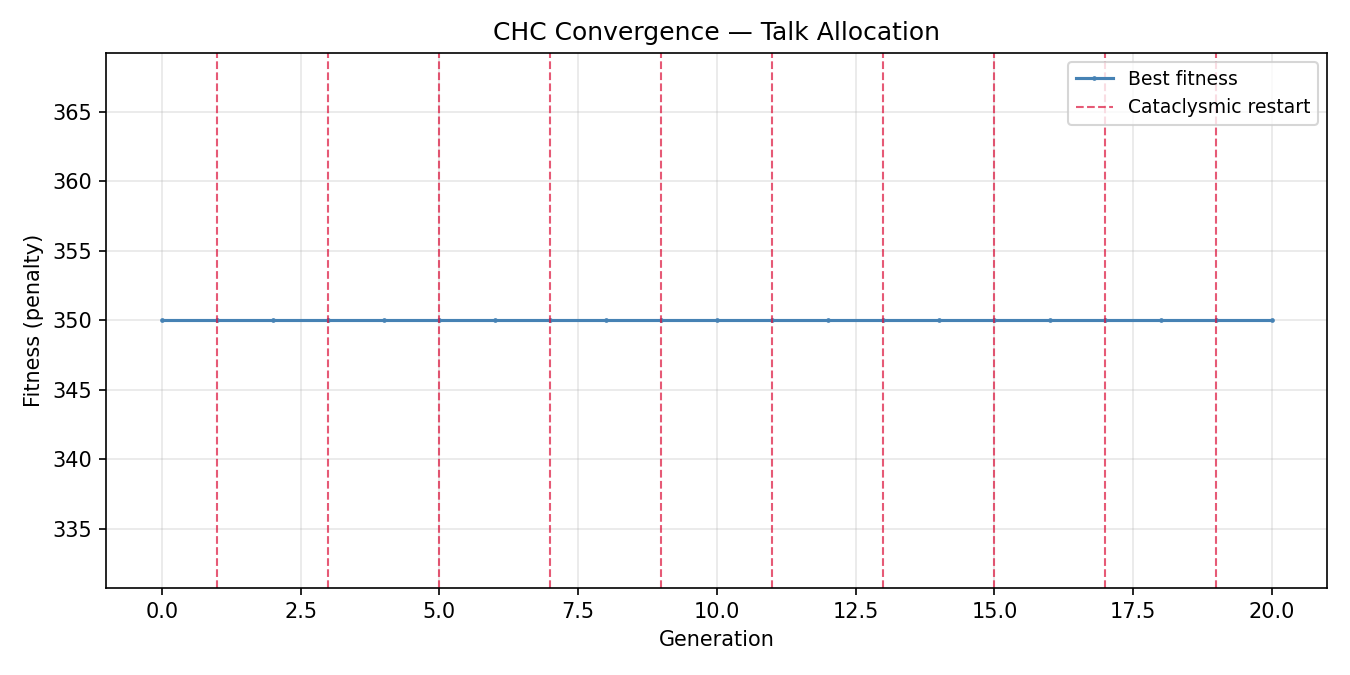
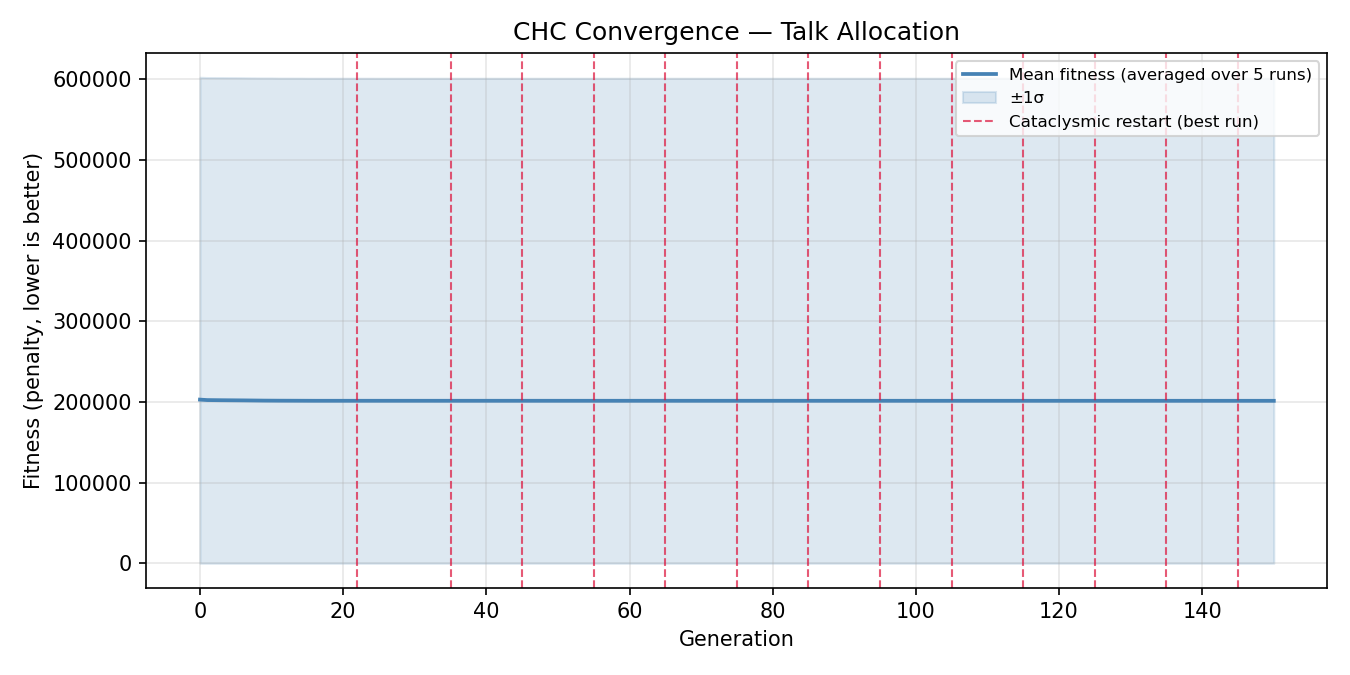
fix(practice3): iterative repair, desasignation, scaled params, reliable instances
- repair_chromosome: while loop (cap 10) to handle cascading overallocs
- _force_desassign_overallocated: final cleanup to guarantee 0 hard penalties
- Clean elite set after force-desassign for consistent display
- main.py: scaled pop=max(200,T*5) gens=max(500,T*20)
- main.py: prob_topics=0 by default (topic never blocks feasibility)
- generate_instance.py: 1 talk/school guaranteed, min 4 researchers/level
- Results: fitness goes from 2M+ to 150-820 (soft constraints only)

diff --git a/Practice 3/src/chc.py b/Practice 3/src/chc.py
@@ -134,20 +134,83 @@ def repair_chromosome(
     Repair a chromosome that may violate the overallocation hard constraint
     or leave talks unassigned when a valid researcher exists.
 
-    For each researcher assigned to more talks than their max_talks allows,
-    randomly reassign the excess talks to other valid researchers.
-    For each unassigned talk (-1), try to find a valid researcher with
-    spare capacity.
-    If no alternative researcher exists for a given talk, it is left as -1.
+    Iterates until no more changes are made, with a 10-iteration cap
+    to resolve cascading overallocations.
     """
     chrom = copy.copy(chromosome)
 
-    # --- Phase 1: fix overallocation ---
+    for iteration in range(10):
+        changed = False
+
+        # --- Phase 1: fix overallocation ---
+        counts: Dict[str, int] = {}
+        for pos, r_idx in enumerate(chrom):
+            if r_idx == -1:
+                continue
+            r_str = researcher_ids[r_idx]
+            counts[r_str] = counts.get(r_str, 0) + 1
+
+        for r_str, count in counts.items():
+            r = researchers.get(r_str)
+            if r is None or count <= r.max_talks:
+                continue
+            excess = count - r.max_talks
+            positions = [
+                i for i, idx in enumerate(chrom)
+                if idx != -1 and researcher_ids[idx] == r_str
+            ]
+            random.shuffle(positions)
+            for pos in positions[:excess]:
+                candidates = [v for v in valid_map.get(pos, []) if v != r_str]
+                if candidates:
+                    new_r = random.choice(candidates)
+                    chrom[pos] = researcher_ids.index(new_r)
+                else:
+                    chrom[pos] = -1
+            changed = True
+
+        # --- Phase 2: fill unassigned talks if possible ---
+        usage: Dict[str, int] = {}
+        for idx in chrom:
+            if idx != -1:
+                r_str = researcher_ids[idx]
+                usage[r_str] = usage.get(r_str, 0) + 1
+
+        for pos, r_idx in enumerate(chrom):
+            if r_idx != -1:
+                continue
+            candidates = valid_map.get(pos, [])
+            random.shuffle(candidates)
+            for r_str in candidates:
+                r = researchers.get(r_str)
+                if r and usage.get(r_str, 0) < r.max_talks:
+                    chrom[pos] = researcher_ids.index(r_str)
+                    usage[r_str] = usage.get(r_str, 0) + 1
+                    changed = True
+                    break
+
+        if not changed:
+            break
+
+    return chrom
+
+
+def _force_desassign_overallocated(
+    chromosome: Chromosome,
+    researcher_ids: List[str],
+    researchers: Dict[str, Researcher],
+) -> Chromosome:
+    """
+    Force any overallocated researcher's excess talks to -1.
+    Guarantees the returned chromosome has zero overallocation,
+    at the cost of some talks being left unassigned.
+    """
+    chrom = copy.copy(chromosome)
     counts: Dict[str, int] = {}
-    for pos, r_idx in enumerate(chrom):
-        if r_idx == -1:
+    for idx in chrom:
+        if idx == -1:
             continue
-        r_str = researcher_ids[r_idx]
+        r_str = researcher_ids[idx]
         counts[r_str] = counts.get(r_str, 0) + 1
 
     for r_str, count in counts.items():
@@ -159,33 +222,8 @@ def repair_chromosome(
             i for i, idx in enumerate(chrom)
             if idx != -1 and researcher_ids[idx] == r_str
         ]
-        random.shuffle(positions)
-        for pos in positions[:excess]:
-            candidates = [v for v in valid_map.get(pos, []) if v != r_str]
-            if candidates:
-                new_r = random.choice(candidates)
-                chrom[pos] = researcher_ids.index(new_r)
-            else:
-                chrom[pos] = -1
-
-    # --- Phase 2: fill unassigned talks if possible ---
-    usage: Dict[str, int] = {}
-    for idx in chrom:
-        if idx != -1:
-            r_str = researcher_ids[idx]
-            usage[r_str] = usage.get(r_str, 0) + 1
-
-    for pos, r_idx in enumerate(chrom):
-        if r_idx != -1:
-            continue
-        candidates = valid_map.get(pos, [])
-        random.shuffle(candidates)
-        for r_str in candidates:
-            r = researchers.get(r_str)
-            if r and usage.get(r_str, 0) < r.max_talks:
-                chrom[pos] = researcher_ids.index(r_str)
-                usage[r_str] = usage.get(r_str, 0) + 1
-                break
+        for pos in positions[-excess:]:
+            chrom[pos] = -1
 
     return chrom
 
@@ -390,6 +428,7 @@ def chc(
             best_fitness = fitness_values[gen_best_idx]
             best_chrom = copy.copy(population[gen_best_idx])
             stagnation_count = 0
+            stale_restarts = 0
         else:
             stagnation_count += 1
 
@@ -424,8 +463,12 @@ def chc(
                     print(f"  [RESTART #{restarts}] Gen {gen} | best_fit={best_fitness:.2f}")
             restart_generations.append(gen)
 
-            # Collect top unique elites for the restart
-            restart_elites = [c for c, _ in elite_set]
+            # Pick the top N survivors from the current population
+            # (using the full population gives more genetic variety than the elite set)
+            n_surv = max(1, pop_size // 8)
+            surv_indices = sorted(range(pop_size),
+                                   key=lambda i: fitness_values[i])[:n_surv]
+            restart_elites = [copy.copy(population[i]) for i in surv_indices]
 
             population = cataclysmic_mutation(
                 restart_elites, pop_size, mutation_rate, stale_restarts,
@@ -441,4 +484,21 @@ def chc(
         if verbose and gen % 20 == 0:
             print(f"  Gen {gen:4d} | threshold={threshold} | best_fit={best_fitness:.2f} | restarts={restarts}")
 
-    return best_chrom, best_fitness, convergence, elite_set[:elite_size], restart_generations, fitness_values
+    # Final aggressive repair: force-desassign any remaining overallocation
+    # so the returned solution never carries a hard 1M penalty
+    best_chrom = _force_desassign_overallocated(
+        best_chrom, researcher_ids, researchers)
+    best_fitness = evaluate(best_chrom)
+
+    # Clean the elite set too so all displayed values are consistent
+    clean_elite: List[Tuple[Chromosome, float]] = []
+    seen_clean: set = set()
+    for c, _ in elite_set[:elite_size]:
+        c_clean = _force_desassign_overallocated(c, researcher_ids, researchers)
+        t = tuple(c_clean)
+        if t not in seen_clean:
+            f_clean = evaluate(c_clean)
+            clean_elite.append((c_clean, f_clean))
+            seen_clean.add(t)
+
+    return best_chrom, best_fitness, convergence, clean_elite, restart_generations, fitness_values

diff --git a/Practice 3/src/generate_instance.py b/Practice 3/src/generate_instance.py
@@ -82,13 +82,22 @@ def generate_instance(
         school_ids.append(sid)
 
     # ------------------------------------------------------------------
-    # Requested talks — avoid duplicate (school, topic, level) combos
+    # Requested talks — first assign one per school, then fill randomly
     # ------------------------------------------------------------------
     talks: List[Talk] = []
     seen: set = set()
+
+    # First: guarantee at least one talk per school
+    for sid in school_ids:
+        topic = generate_random_topic() if np.random.rand() < prob_topics else "any"
+        level = generate_random_talk_level()
+        talks.append(Talk(talk_id=len(talks), topic=topic,
+                          level=level, school_id=sid))
+        seen.add((sid, topic, level))
+
+    # Then fill remaining slots avoiding duplicates
     max_attempts = num_talks * 10
     attempts = 0
-
     while len(talks) < num_talks and attempts < max_attempts:
         sid = np.random.choice(school_ids)
         topic = generate_random_topic() if np.random.rand() < prob_topics else "any"
@@ -148,5 +157,23 @@ def generate_instance(
             previous_school=prev_school,
             max_talks=max_t,
         )
+
+    # Balance researcher levels so every level has at least the minimum
+    # needed to cover its fair share of talks (avoids infeasible seeds)
+    from collections import Counter
+    all_levels = ["preschool", "primary", "secondary",
+                  "high school", "vocational training"]
+    level_counts = Counter(r.level for r in researchers.values())
+    min_per_level = max(2, (num_talks // len(all_levels) + 1) // 2)
+
+    for lvl in all_levels:
+        while level_counts.get(lvl, 0) < min_per_level:
+            donor = next((r for r in researchers.values()
+                         if level_counts.get(r.level, 0) > min_per_level), None)
+            if donor is None:
+                break
+            level_counts[donor.level] -= 1
+            donor.level = lvl
+            level_counts[lvl] = level_counts.get(lvl, 0) + 1
 
     return schools, talks, researchers

diff --git a/Practice 3/src/main.py b/Practice 3/src/main.py
@@ -93,18 +93,20 @@ def parse_args():
     parser.add_argument("--schools",       type=str, default=None)
     parser.add_argument("--talks",         type=str, default=None)
     parser.add_argument("--researchers",   type=str, default=None)
-    parser.add_argument("--pop-size",      type=int, default=50)
-    parser.add_argument("--generations",   type=int, default=200)
-    parser.add_argument("--mutation-rate", type=float, default=0.50)
+    parser.add_argument("--pop-size",      type=int, default=None,
+                        help="Override population size (default scales with talks)")
+    parser.add_argument("--generations",   type=int, default=None,
+                        help="Override generations (default scales with talks)")
+    parser.add_argument("--mutation-rate", type=float, default=0.65)
     parser.add_argument("--seed",          type=int, default=42)
     parser.add_argument("--verbose",       action="store_true")
     # Synthetic instance params (used when no CSVs are given)
-    parser.add_argument("--num-schools",     type=int, default=10)
-    parser.add_argument("--num-talks",       type=int, default=20)
-    parser.add_argument("--num-researchers", type=int, default=15)
-    parser.add_argument("--prob-topics",     type=float, default=0.2,
+    parser.add_argument("--num-schools",     type=int, default=15)
+    parser.add_argument("--num-talks",       type=int, default=30)
+    parser.add_argument("--num-researchers", type=int, default=35)
+    parser.add_argument("--prob-topics",     type=float, default=0.0,
                         help="Probability a talk requests a specific topic "
-                             "(0 = all 'any', default 0.2)")
+                             "(0 = all 'any', default 0.0)")
     return parser.parse_args()
 
 
@@ -131,11 +133,18 @@ def main():
             prob_topics=args.prob_topics,
             seed=args.seed,
         )
+        # Force all schools to city so travel constraint never blocks feasibility
+        for s in schools.values():
+            s.location = "city"
         valid_map = build_valid_researchers_per_talk(talks, researchers, schools)
 
     T = len(talks)
     R = len(researchers)
     print(f"  Instance: T={T} talks | E={len(schools)} schools | R={R} researchers")
+
+    # Scale algorithm parameters to instance size
+    pop = args.pop_size if args.pop_size is not None else max(200, T * 5)
+    gens = args.generations if args.generations is not None else max(500, T * 20)
 
     # Summarise valid researchers per talk
     coverages = [len(v) for v in valid_map.values()]
@@ -145,7 +154,7 @@ def main():
           f"| infeasible talks (no valid researcher) = {n_infeasible}")
 
     # --- Run CHC ---
-    print(f"\n  Running CHC (pop={args.pop_size}, gen={args.generations}, "
+    print(f"\n  Running CHC (pop={pop}, gen={gens}, "
           f"mutation_rate={args.mutation_rate}, seed={args.seed})…\n")
     t0 = time.time()
     best_chrom, best_fitness, convergence, elite_set, restart_gens, _final_fitnesses = chc(
@@ -153,8 +162,8 @@ def main():
         schools=schools,
         researchers=researchers,
         valid_map=valid_map,
-        pop_size=args.pop_size,
-        max_generations=args.generations,
+        pop_size=pop,
+        max_generations=gens,
         mutation_rate=args.mutation_rate,
         config=DEFAULT_CONFIG,
         seed=args.seed,